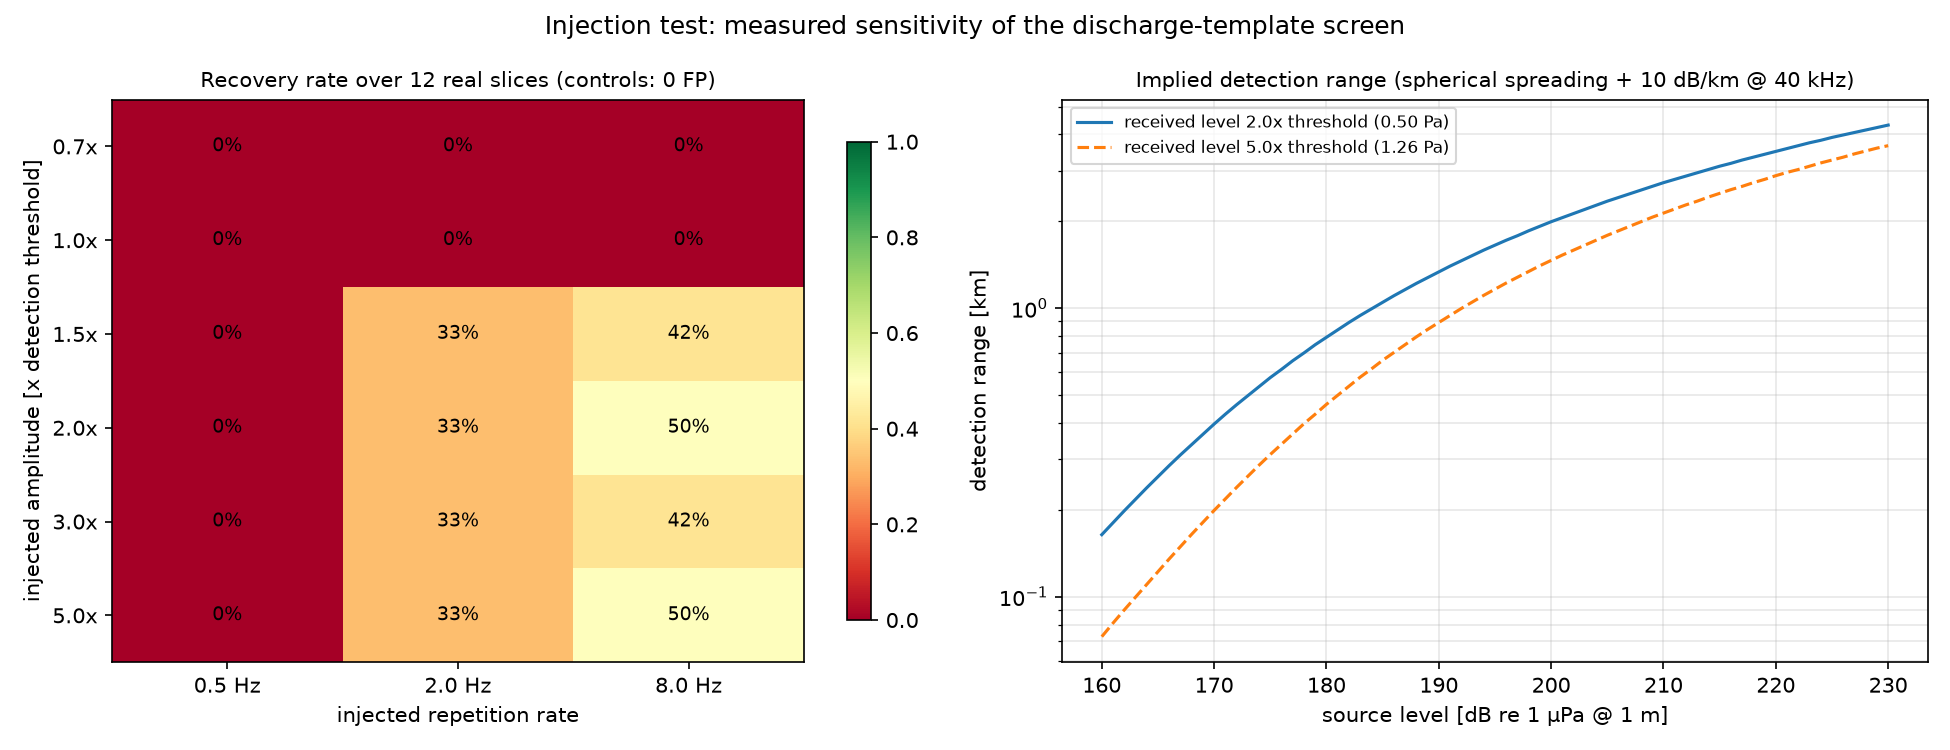
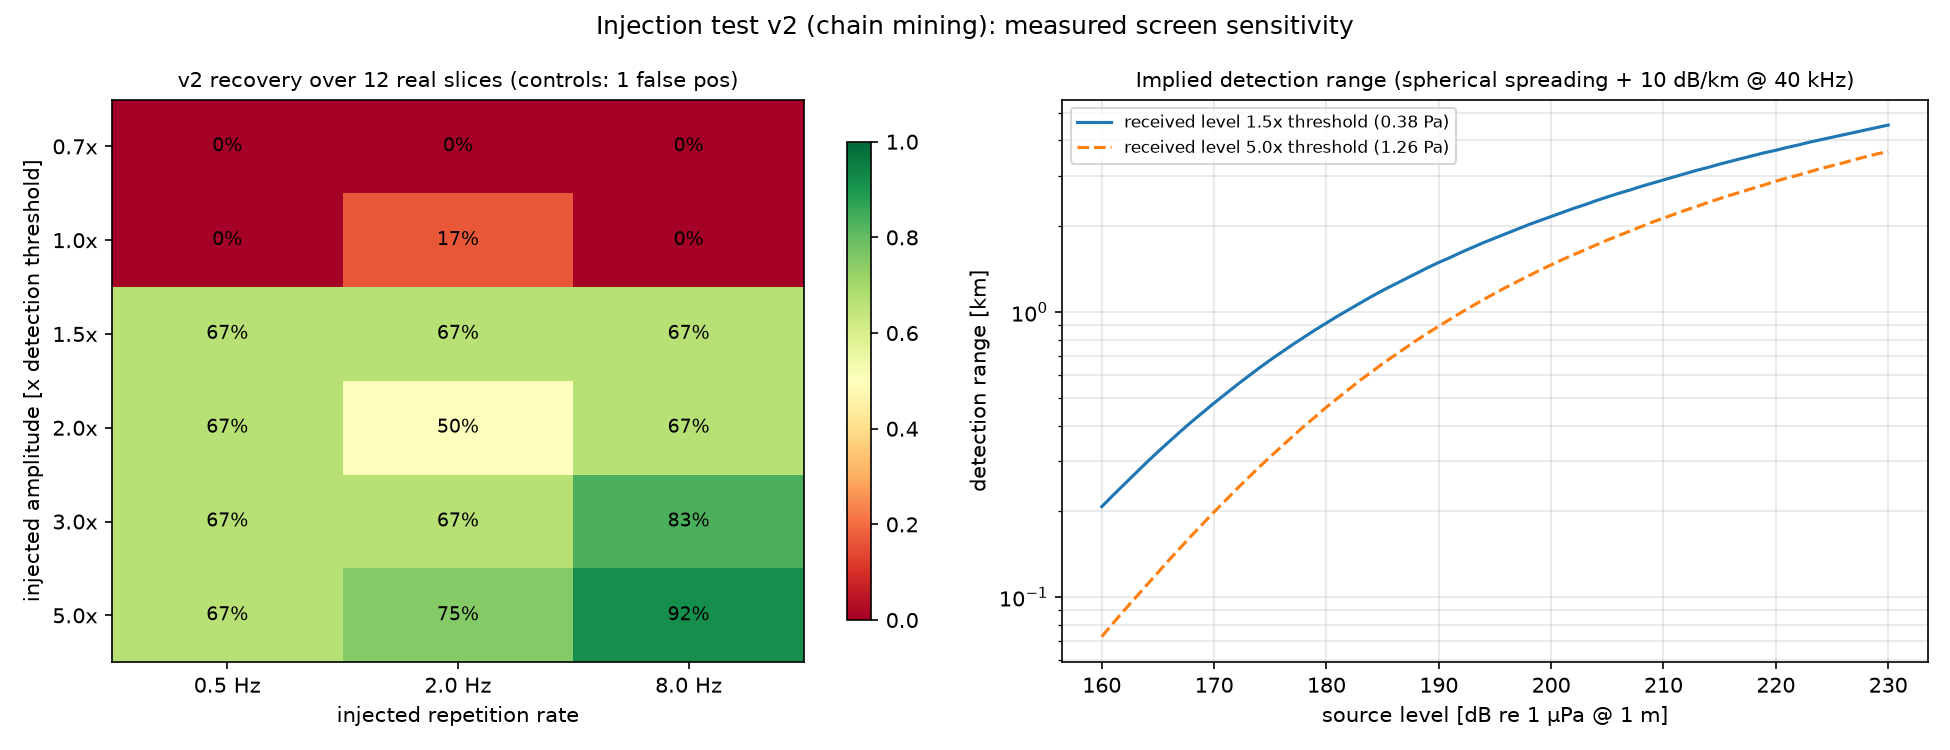
Re-measure screen sensitivity with chain mining; harden against empty slices
Injection test v2 (chain-mining detector) over 12 real slices:
- 0.5 Hz trains, never recovered by v1 (0%), now recovered at 67%
- detection floor at 1.5x the local threshold; below 1x nothing fires
- recovery 67-92% at >=1.5x except the 4 busiest slices (3,636-click
  storm + heavy echosounder days) which stay hard -- the honest,
  measured limit of a single-sensor screen in dense interference
- cost of the higher sensitivity: 1 false positive in 12 clean control
  runs (v1 had 0) -- a real detection-threshold tradeoff, now quantified
- implied detection-range curve added (spherical spreading + 10 dB/km)

Also guards find_periodic_chains / mine_chains against empty or
degenerate event streams (a zero-detection slice previously raised on
logh.min()).

Claude-Session: https://claude.ai/code/session_01WFhEo1c6TtW4FNHecjtDJF

diff --git a/src/plasma_transient_search.py b/src/plasma_transient_search.py
@@ -329,7 +329,7 @@ def find_periodic_chains(times, period_range=(0.05, 5.0), n_min=8,
     """
     t = np.sort(np.asarray(times, dtype=float))
     n = len(t)
-    if n < n_min:
+    if n < n_min or t[-1] <= t[0]:
         return []
     # pairwise diffs within range (bounded per event by period_range[1])
     diffs = []
@@ -439,7 +439,9 @@ def mine_chains(times, heights, n_min=8):
     # and strong pings dominate the totals. Slide a 6 dB window in 3 dB
     # steps across the height distribution.
     logh = 20 * np.log10(np.maximum(heights, 1e-12))
-    for lo in np.arange(np.floor(logh.min()), logh.max(), 3.0):
+    lrange = (np.arange(np.floor(logh.min()), logh.max(), 3.0)
+              if logh.size else [])
+    for lo in lrange:
         band = np.nonzero((logh >= lo) & (logh < lo + 6.0))[0]
         if n_min <= len(band) <= 2000:
             tiers.append(band)
